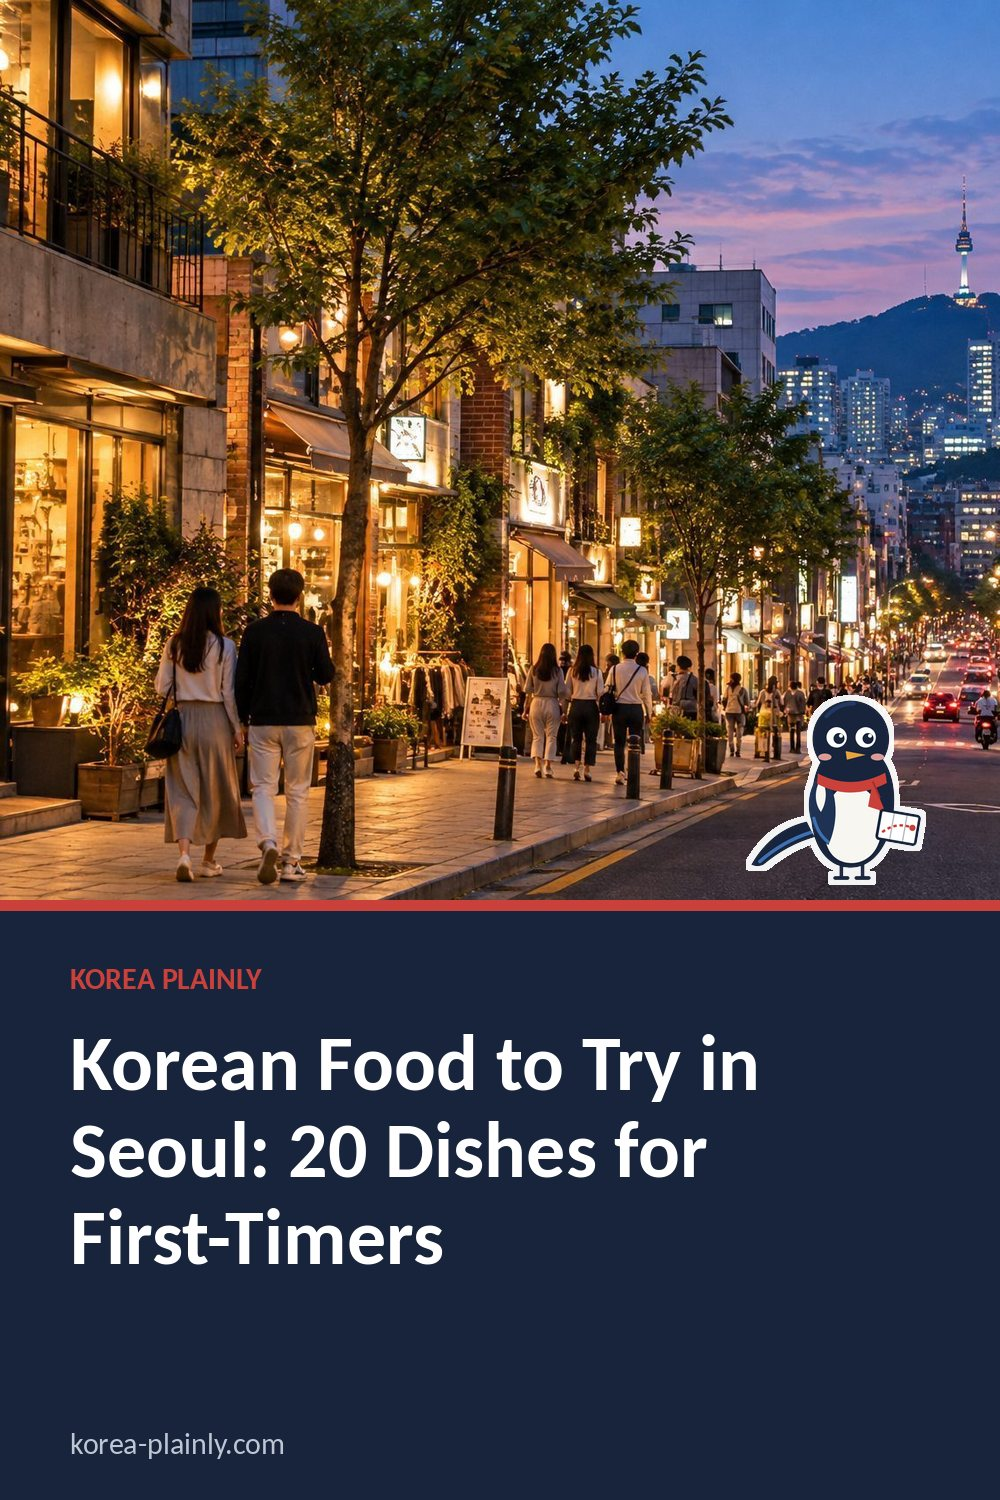
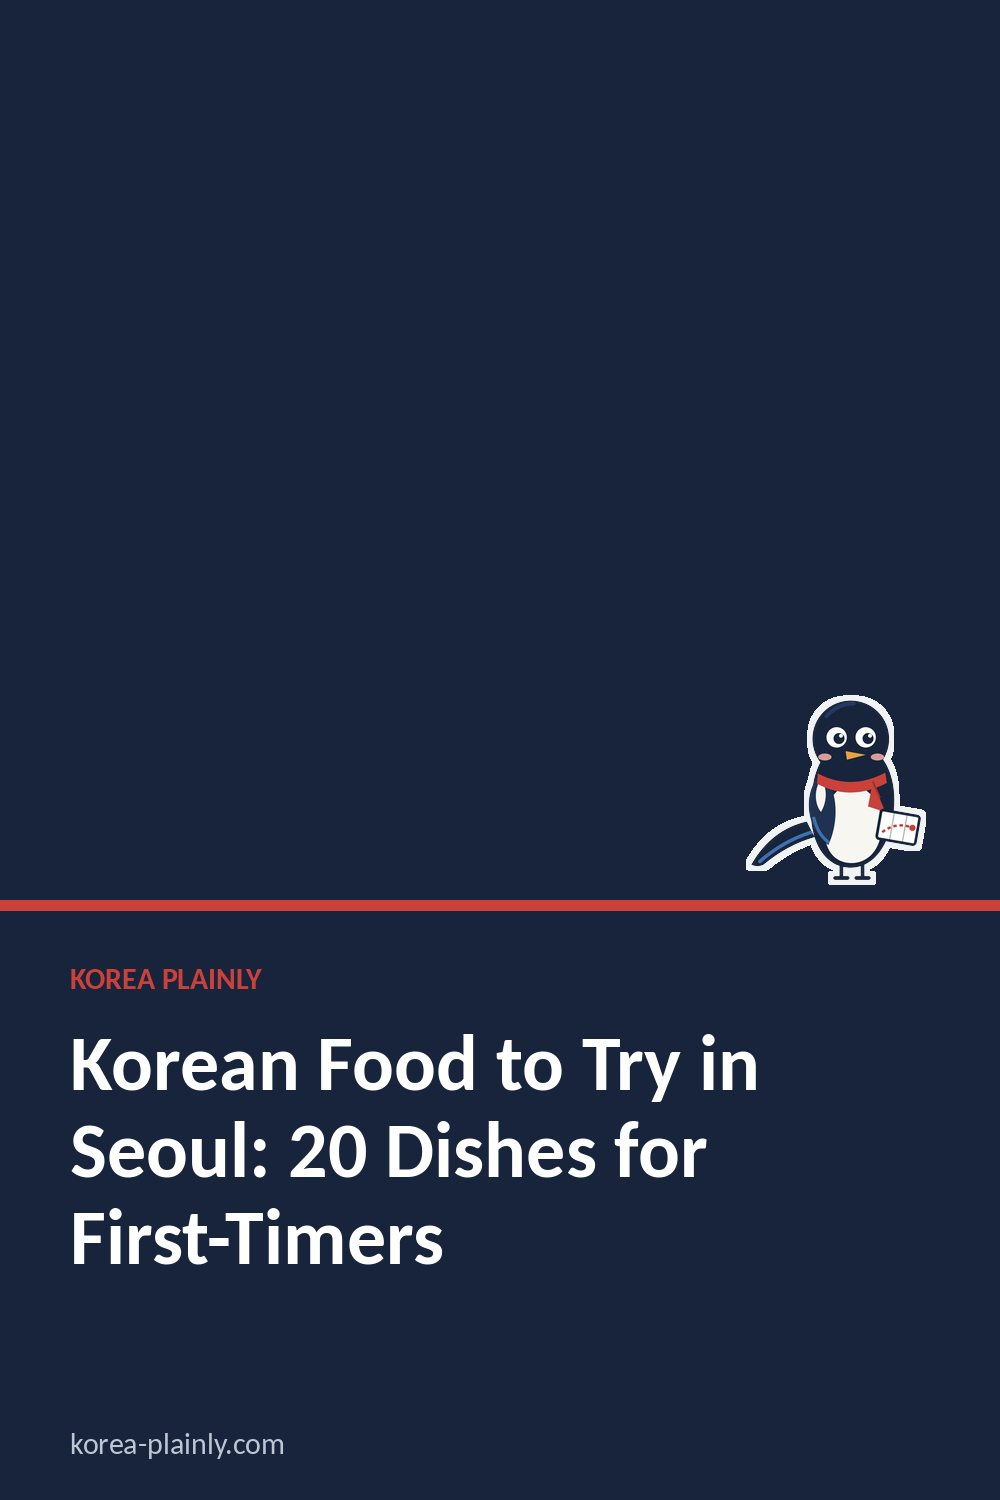
Korean food guide: placeholder card thumbnail so Site Maintenance fetches its Commons cover photo
Claude-Session: https://claude.ai/code/session_01SDDCMUvFLhRt8Yu1czFKeh

diff --git a/guides.html b/guides.html
@@ -2831,7 +2831,7 @@ class="guide-card"
 href="korean-food-to-try.html" data-guide-category="food"
 >
 
-<div class="guide-image" data-thumb="street.jpg"><img class="guide-thumb" src="street.jpg" alt="" loading="lazy" srcset="img/street.5386e01c.w480.webp 480w, img/street.5386e01c.w800.webp 800w, img/street.5386e01c.w1200.webp 1200w, street.jpg 1536w" sizes="(max-width: 600px) 100vw, (max-width: 1000px) 50vw, 400px" decoding="async">
+<div class="guide-image" data-thumb="thumb-auto-korean-food-to-try.svg"><img class="guide-thumb" src="thumb-auto-korean-food-to-try.svg" alt="" loading="lazy" decoding="async">
 
 <span>
 98
